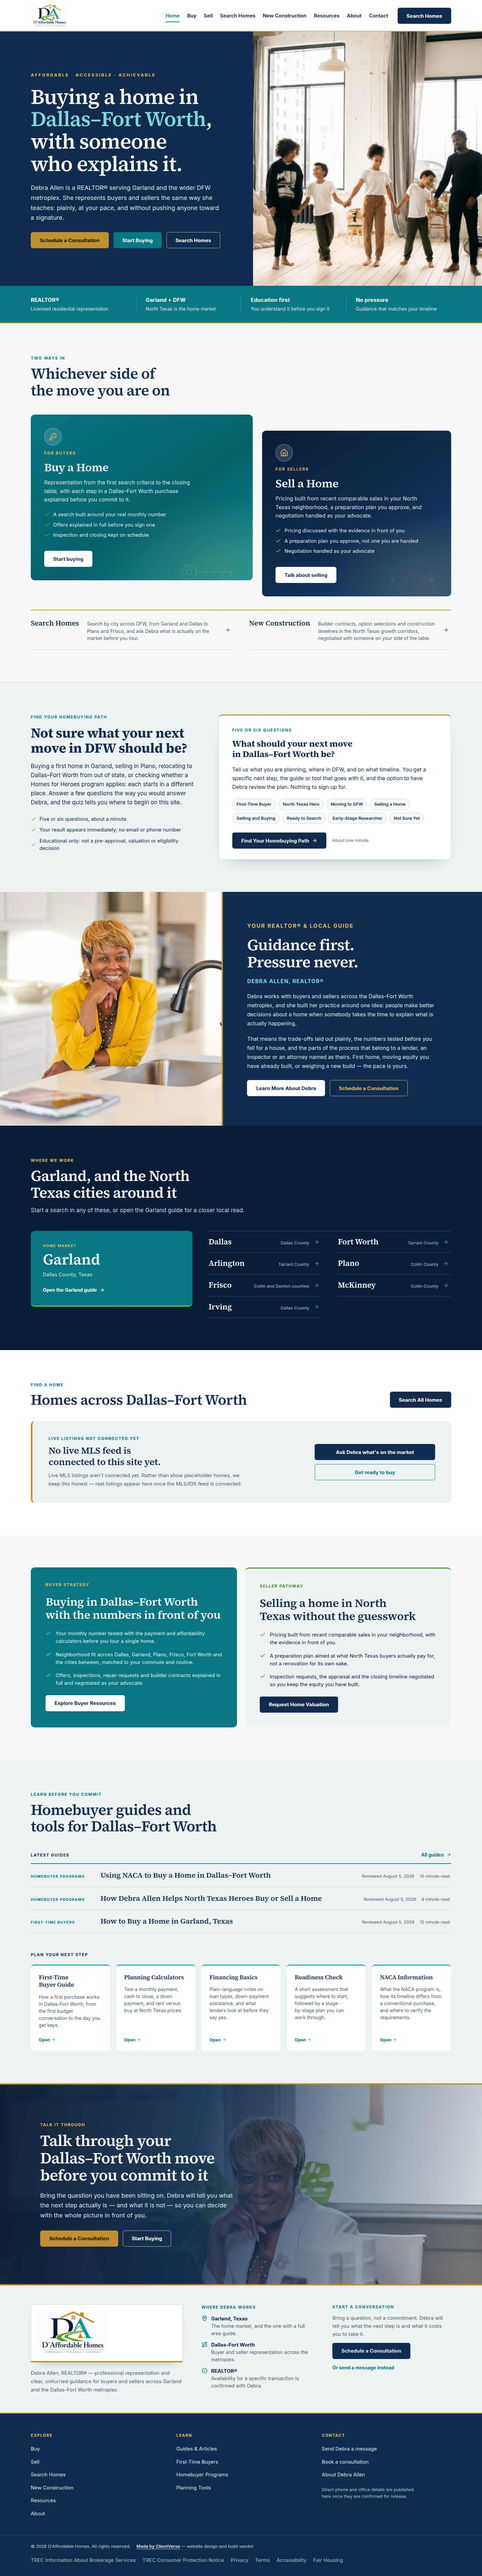
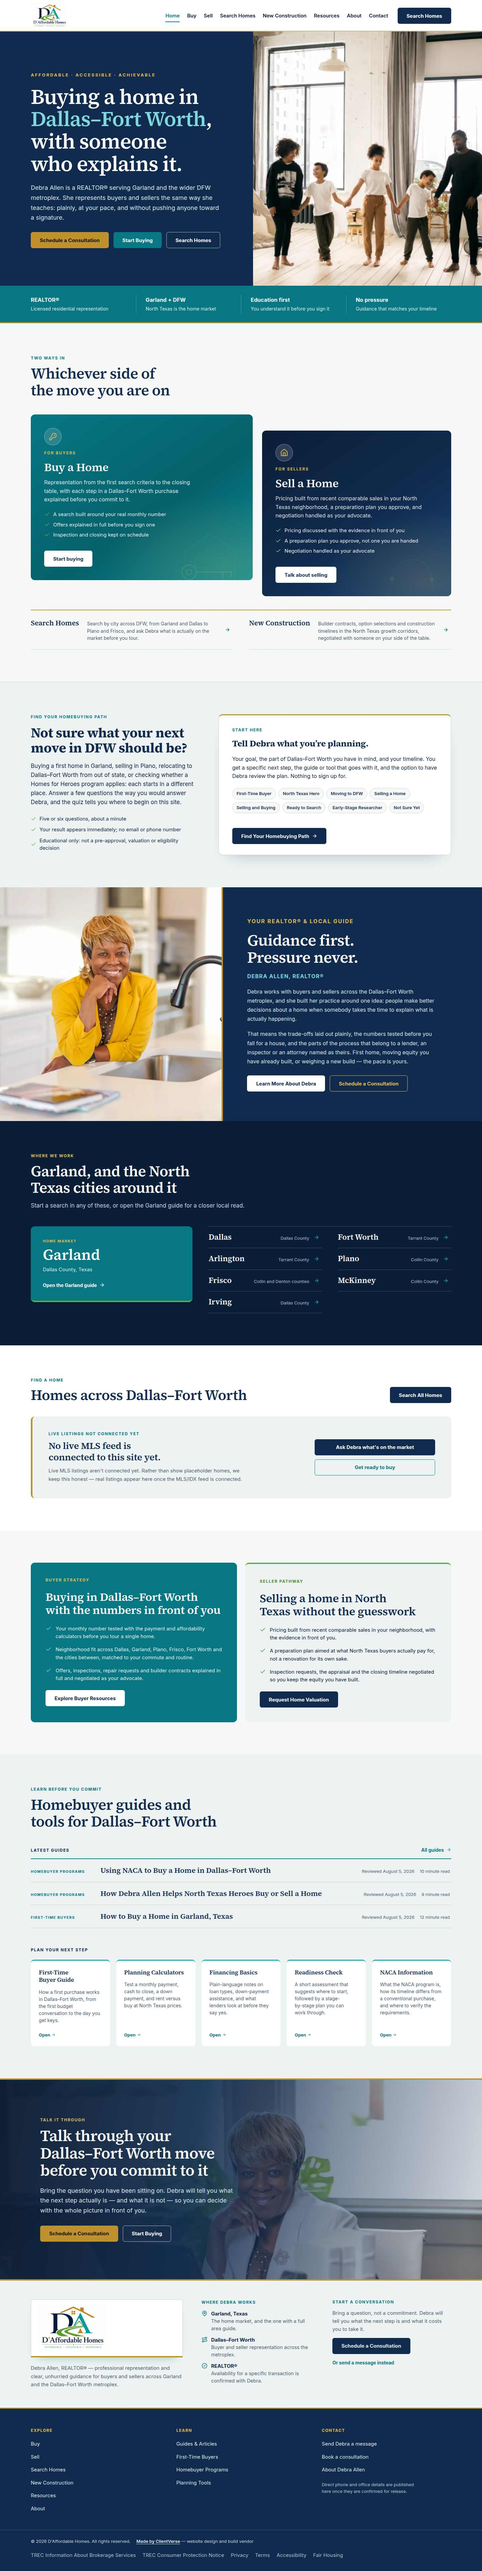
Stop the homebuying-path section asking the same question twice
The section heading asked "Not sure what your next move in DFW should be?"
and the quiz panel beside it asked "What should your next move in
Dallas-Fort Worth be?" — the same question in other words, an inch apart,
one abbreviating DFW and the other spelling it out. The strongest slot in
the section was spent restating the heading.

The panel now says what the visitor is about to do rather than asking again,
and its opening line no longer repeats its own title. The question count and
the minute were stated three times across the section (panel eyebrow, the
list on the left, and a hint beside the button); they are stated once now,
in the list.

Found by reviewing the rendered page at 1440, 1024, 768, 430 and 375 rather
than by a test. The same review measured, at all five widths: no horizontal
overflow, no broken images, no console errors, one h1, no heading-level
jumps, and every top-level section contiguous with the next. Three
apparent defects were checked and are not defects — the pathway-card motif
overflows its card but the card clips it, the skip link measures 155x24
with a visible outline once focused, and the footer attribution link is
inline in a sentence, which SC 2.5.8 exempts.

Verified on this commit: 108 static tests, typecheck, lint (0 warnings),
production build, contrast (23 pairs, 0 failures), face safety (10.5% worst
top crop, ceiling 12%), browser audit (33 routes, 0 console errors, 90
[…]

diff --git a/apps/web/components/home/homebuying-path-quiz.tsx b/apps/web/components/home/homebuying-path-quiz.tsx
@@ -55,13 +55,17 @@ export function HomebuyingPathQuiz() {
   if (phase.kind === "intro") {
     return (
       <div className="fh-pathquiz-panel fh-pathquiz-enter" data-phase="intro">
-        <p className="fh-eyebrow">Five or six questions</p>
+        {/* The section heading beside this panel already asks "Not sure what
+            your next move in DFW should be?", so this title does not ask it
+            again in other words — it says what the visitor is about to do. The
+            question count and the minute live once, in the list on the left. */}
+        <p className="fh-eyebrow">Start here</p>
         <h3 ref={headingRef} tabIndex={-1} className="fh-pathquiz-title">
-          What should your next move in Dallas–Fort Worth be?
+          Tell Debra what you&rsquo;re planning.
         </h3>
         <p className="fh-pathquiz-copy">
-          Tell us what you are planning, where in DFW, and on what timeline. You get a specific next step, the guide or
-          tool that goes with it, and the option to have Debra review the plan. Nothing to sign up for.
+          Your goal, the part of Dallas–Fort Worth you have in mind, and your timeline. You get a specific next step,
+          the guide or tool that goes with it, and the option to have Debra review the plan. Nothing to sign up for.
         </p>
         <ul className="fh-pathquiz-chips" aria-label="The paths this quiz can identify">
           {PATH_ORDER.map((key) => (
@@ -72,7 +76,6 @@ export function HomebuyingPathQuiz() {
           <button type="button" className="fh-btn fh-btn-navy" onClick={start}>
             Find Your Homebuying Path <ArrowRight className="size-4" aria-hidden="true" />
           </button>
-          <span className="fh-pathquiz-hint">About one minute</span>
         </div>
       </div>
     )

diff --git a/CHANGELOG.md b/CHANGELOG.md
@@ -10,6 +10,10 @@ All notable repository changes are documented here.
 - Homepage copy: services, buyer and seller strategy points, knowledge cards and three section headings rewritten as specific Dallas–Fort Worth language; the claim of a "real-time MLS search" that the site does not have is gone.
 - The guided-quiz state machine is shared (`useGuidedQuiz`) by the homepage quiz and the interior Find Your Next Step check; funnel events flow through the existing analytics seam.
 
+### Homepage visual review
+
+- The "Find your homebuying path" section asked the same question twice, side by side: the section heading "Not sure what your next move in DFW should be?" and, an inch to its right, the panel title "What should your next move in Dallas–Fort Worth be?". The panel now says what the visitor is about to do instead of restating the question, and the question count and duration are stated once, in the list on the left, rather than three times across the section.
+
 ### Guide-card imagery and the unregistered-photograph audit
 
 - `featuredImage` is optional end to end (shared type, Sanity schema, blog index, article masthead, related cards, Open Graph and Article JSON-LD). An article without one renders `ArticlePlate` — brand field, architectural linework, the article's own category — and publishes no image property rather than asserting that an unrelated photograph depicts its subject. Setting the field in Sanity restores a photograph everywhere with no code change.
